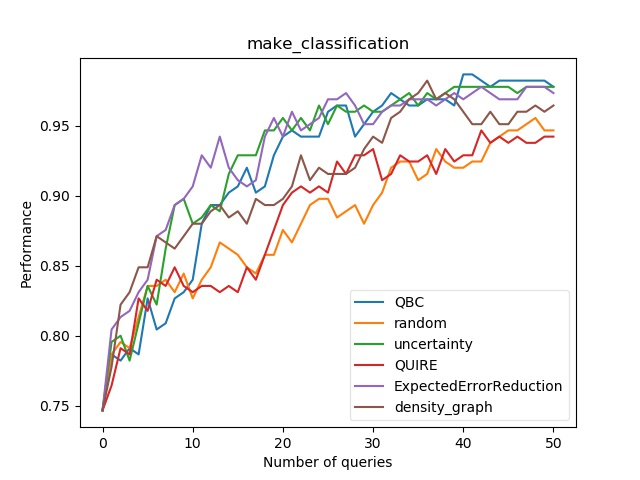
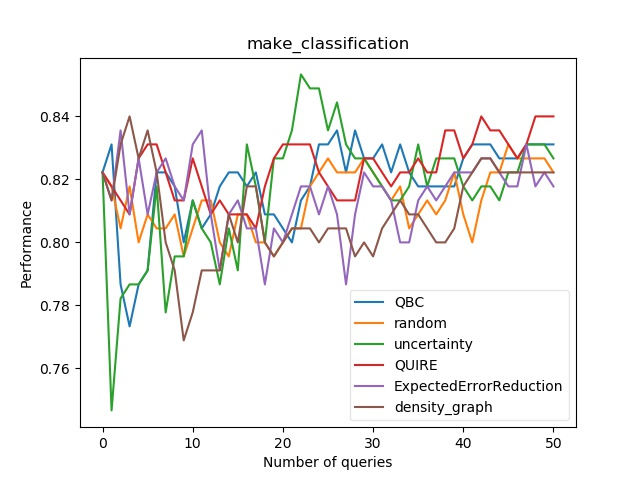
''

diff --git a/Acepy/acepy/experiment/al_experiment.py b/Acepy/acepy/experiment/al_experiment.py
@@ -6,7 +6,7 @@ To run the experiment with only one class,
 we have to impose some restrictions to make
 sure the robustness of the code.
 """
-# Authors: Ying-Peng Tang
+# Authors: GuoXiang-Li
 # License: BSD 3 clause
 
 import os
@@ -30,6 +30,8 @@ from acepy.experiment.experiment_analyser import ExperimentAnalyser
 from acepy.utils.multi_thread import aceThreading
 import acepy.query_strategy.query_strategy
 import acepy.query_strategy.third_party_methods
+import acepy.metrics.performance
+from acepy.metrics.performance import accuracy_score
 
 
 class AlExperiment:
@@ -56,7 +58,7 @@ class AlExperiment:
     model: object
         An model object which accord the scikit-learn api
 
-    performance_metric: str, optional (default='accuracy')
+    performance_metric: str, optional (default='accuracy_score')
         The performance metric
 
     stopping_criteria: str, optional (default=None)
@@ -92,7 +94,9 @@ class AlExperiment:
 
         self._X, self._y = check_X_y(X, y, accept_sparse='csc', multi_output=True)
         self._model = model
-        self._performance_metric = performance_metric
+        # set default performance metric 
+        self._performance_metric_name = performance_metric
+        self._performance_metric = accuracy_score
 
         # set split in the initial
         train_idx = kwargs.pop('train_idx', None)
@@ -124,32 +128,61 @@ class AlExperiment:
             Giving callable to use a user-defined strategy.
 
         kwargs: dict, optional
-            The args used in user-defined strategy.
+            if kwargs is None,the pre-defined strategy will init in 
+            The args used in strategy.
             Note that, each parameters should be static.
             The parameters will be fed to the callable object automatically.
         """
+        # user-defined strategy
         if callable(strategy):
             self.__custom_strategy_flag = True
-            self._query_function = strategy
             self.__custom_func_arg = kwargs
+            self._query_function = strategy(self._X, self._y, kwargs)
             return
         
+        # a pre-defined strategy in Acepy
         if strategy not in ['QueryInstanceQBC', 'QueryInstanceUncertainty', 'QueryRandom', 'QureyExpectedErrorReduction', 
-                            'QueryInstanceBMDR', 'QueryInstanceGraphDensity', 'QueryInstanceLALRand', 'QueryInstanceQUIRE']:
+                            'QueryInstanceBMDR', 'QueryInstanceGraphDensity', 'QueryInstanceQUIRE']:
             raise NotImplementedError('Strategy %s is not implemented. Specify a valid '
                                       'method name or privide a callable object.', str(strategy))
-        else:
-            
-        if strategy in ['QueryInstanceQBC', 'QueryInstanceUncertainty', 'QueryRandom', 'QureyExpectedErrorReduction']:
-            self._query_function = getattr(acepy.query_strategy.query_strategy, strategy)
-        elif strategy in ['QueryInstanceBMDR', 'QueryInstanceGraphDensity', 'QueryInstanceLALRand', 'QueryInstanceQUIRE']:
-            self._query_function = getattr(acepy.query_strategy.third_party_methods, strategy)
-            
-        pass
+        elif strategy == 'QueryInstanceQBC':
+            method = kwargs.pop('method', None)
+            disagreement = kwargs.pop('disagreement', None)
+            scenario = kwargs.pop('scenario', None)
+            self._query_function = acepy.query_strategy.query_strategy.QueryInstanceQBC(self._X, self._y,method, disagreement, scenario)
+        elif strategy == 'QueryInstanceUncertainty':
+            method = kwargs.pop('method', None)
+            scenario = kwargs.pop('scenario', None)
+            self._query_function = acepy.query_strategy.query_strategy.QueryInstanceUncertainty(self._X, self._y,method, scenario)
+        elif strategy == 'QueryRandom':
+            scenario = kwargs.pop('scenario', None)
+            self._query_function = acepy.query_strategy.query_strategy.QueryRandom(scenario)
+        elif strategy == 'QureyExpectedErrorReduction':
+            scenario = kwargs.pop('scenario', None)
+            self._query_function = acepy.query_strategy.query_strategy.QueryInstanceUncertainty(self._X, self._y, scenario)
+        elif strategy == 'QueryInstanceBMDR':
+            kernel = kwargs.pop('kernel', None)
+            scenario = kwargs.pop('scenario', None)
+            self._query_function = acepy.query_strategy.third_party_methods.QueryInstanceBMDR(self._X, self._y, kernel, kwargs)
+        elif strategy == 'QueryInstanceGraphDensity':
+            if self._train_idx is None:
+                raise ValueError('train_idx is None.Please split data firstly.You can call set_data_split or split_AL to split data.')
+            metric = kwargs.pop('metric', None)
+            scenario = kwargs.pop('scenario', None)
+            self._query_function = acepy.query_strategy.third_party_methods.QueryInstanceGraphDensity(self._X, self._y, self._train_idx, metric)
+        elif strategy == 'QueryInstanceQUIRE':
+            self._query_function = acepy.query_strategy.third_party_methods.QueryInstanceQUIRE(self._X, self._y, kwargs)
 
     def set_performance_metric(self, performance_metric='accuracy_score'):
-        '''
-        '''
+        """
+            Set the metric for experiment.
+        """
+        if performance_metric not in ['accuracy_score', 'roc_auc_score', 'get_fps_tps_thresholds', 'hamming_loss', 'one_error', 'coverage_error',
+                                        'label_ranking_loss', 'label_ranking_average_precision_score']:
+            raise NotImplementedError('Performance %s is not implemented.', str(performance_metric))
+        
+        self._performance_metric_name = performance_metric
+        self._performance_metric = getattr(acepy.metrics.performance, performance_metric)
         pass
 
     def set_data_split(self, train_idx, test_idx, label_idx, unlabel_idx):
@@ -243,13 +276,16 @@ class AlExperiment:
 
     def __al_main_loop(self, round, train_id, test_id, Lcollection, Ucollection,
                        saver, examples, labels, global_parameters):
+        """
+            The active-learning main loop.
+        """
         self._model.fit(X=self._X[Lcollection.index, :], y=self.y[Lcollection.index])
         pred = self._model.predict(self._X[test_id, :])
 
         # performance calc
-        accuracy = sum(pred == self._y[test_id]) / len(test_id)
+        perf_result = self._performance_metric(pred, self._y[test_id])
 
-        saver.set_initial_point(accuracy)
+        saver.set_initial_point(perf_result)
         while not self._stopping_criterion.is_stop():
             if not self.__custom_strategy_flag:
                 if 'model' in inspect.getfullargspec(self._query_function.select)[0]:
@@ -267,10 +303,10 @@ class AlExperiment:
             pred = self._model.predict(self._X[test_id, :])
 
             # performance calc
-            accuracy = sum(pred == self._y[test_id]) / len(test_id)
+            perf_result = self._performance_metric(pred, self._y[test_id])
 
             # save intermediate results
-            st = State(select_index=select_ind, performance=accuracy)
+            st = State(select_index=select_ind, performance=perf_result)
             saver.add_state(st)
             saver.save()
             # update stopping_criteria

diff --git a/Acepy/acepy/query_strategy/query_strategy.py b/Acepy/acepy/query_strategy/query_strategy.py
@@ -496,7 +496,7 @@ class QureyExpectedErrorReduction(acepy.utils.interface.BaseQueryStrategy):
         the test distribution, and used as a sort of validation set), and query the instance
         with minimal expected future error (sometimes called risk)
     '''
-    def __init__(self, X=None, y=None, method='log_loss', scenario='pool'):
+    def __init__(self, X=None, y=None, scenario='pool'):
         """initializing
 
         Parameters
@@ -514,34 +514,10 @@ class QureyExpectedErrorReduction(acepy.utils.interface.BaseQueryStrategy):
             should be one of ['pool', 'stream', 'membership']
 
         """
-                
-        if method not in ['zero_one_loss', 'log_loss']:
-            raise ValueError("measure must in ['zero_one_loss', 'log_loss']")
-        self.method = method
         if scenario not in ['pool', 'stream', 'membership']:
             raise ValueError("scenario must in ['pool', 'stream', 'membership']")
         self.scenario = scenario
         super(QureyExpectedErrorReduction, self).__init__(X, y)
-
-    def zero_one_loss(self, prob):
-        '''
-            Compute expected zero_one_loss
-        
-        Parameters
-        ----------
-        predict_proba: the predict_proba of the current model
-
-        Returns
-        -------
-        0/1_loss: float
-            0/1_loss for the predict_proba.
-
-        '''
-        loss = 0.0
-        for i in range(len(prob)):
-            for p in list(prob[i]):
-                loss += 1 - p
-        return loss
 
     def log_loss(self, prob):
         ''' 
@@ -581,7 +557,7 @@ class QureyExpectedErrorReduction(acepy.utils.interface.BaseQueryStrategy):
         
         # get unlabel_x,label_x,label_y
         if self.X is None or self.y is None:
-            raise Exception('Data matrix is not provided, use calc_vote_entropy() instead.')
+            raise Exception('Data matrix is not provided.')
         if not isinstance(unlabel_index, np.ndarray):
             unlabel_index = np.array([i for i in unlabel_index])
         if not isinstance(label_index, np.ndarray):
@@ -608,10 +584,7 @@ class QureyExpectedErrorReduction(acepy.utils.interface.BaseQueryStrategy):
                 new_model = copy.deepcopy(model)
                 new_model.fit(new_train_X, np.append(label_y, yi))              
                 prob = new_model.predict_proba(new_unlabel_X)
-                if self.method == 'zero_one_loss':
-                    score.append(pv[i, yi] * self.zero_one_loss(prob))
-                elif self.method == 'log_loss':
-                    score.append(pv[i, yi] * self.log_loss(prob))
+                score.append(pv[i, yi] * self.log_loss(prob))
             scores.append(np.sum(score))
 
         return unlabel_index[nsmallestarg(scores, batch_size)]

diff --git a/Acepy/test.py b/Acepy/test.py
@@ -28,9 +28,9 @@ model = acebox.default_model()
 stopping_criterion = acebox.stopping_criterion('num_of_queries', 50)
 
 # use pre-defined strategy, The data matrix is a reference which will not use additional memory
-QBCStrategy = QueryInstanceQBC(X, y)
+uncertainStrategy = QueryInstanceUncertainty(X, y)
 
-QBC_result = []
+uncertainty_result = []
 for round in range(split_count):
     train_idx, test_idx, Lind, Uind = acebox.get_split(round)
     # saver = acebox.StateIO(round)
@@ -43,7 +43,7 @@ for round in range(split_count):
 
     saver.set_initial_point(accuracy)
     while not stopping_criterion.is_stop():
-        select_ind = QBCStrategy.select(Lind, Uind, model=model)
+        select_ind = uncertainStrategy.select(Lind, Uind, model=model)
         Lind.update(select_ind)
         Uind.difference_update(select_ind)
 
@@ -60,11 +60,10 @@ for round in range(split_count):
         # update stopping_criteria
         stopping_criterion.update_information(saver)
     stopping_criterion.reset()
-    QBC_result.append(copy.deepcopy(saver))
-
+    uncertainty_result.append(copy.deepcopy(saver))
 
 analyser = acebox.experiment_analyser()
-print('type of QBC_result:', type(QBC_result))
-analyser.add_method('QBC', QBC_result)
+analyser.add_method('uncertainty', uncertainty_result)
+
 print(analyser)
 analyser.plot_line_chart(title='make_classification')

diff --git a/Acepy/acepy/metrics/performance.py b/Acepy/acepy/metrics/performance.py
@@ -11,7 +11,7 @@ import numpy as np
 from scipy.sparse import csr_matrix
 from scipy.stats import rankdata
 
-from acepy.utils.tools import check_one_to_one_correspondence
+from acepy.utils.misc import check_one_to_one_correspondence
  
  
 __all__ = [
